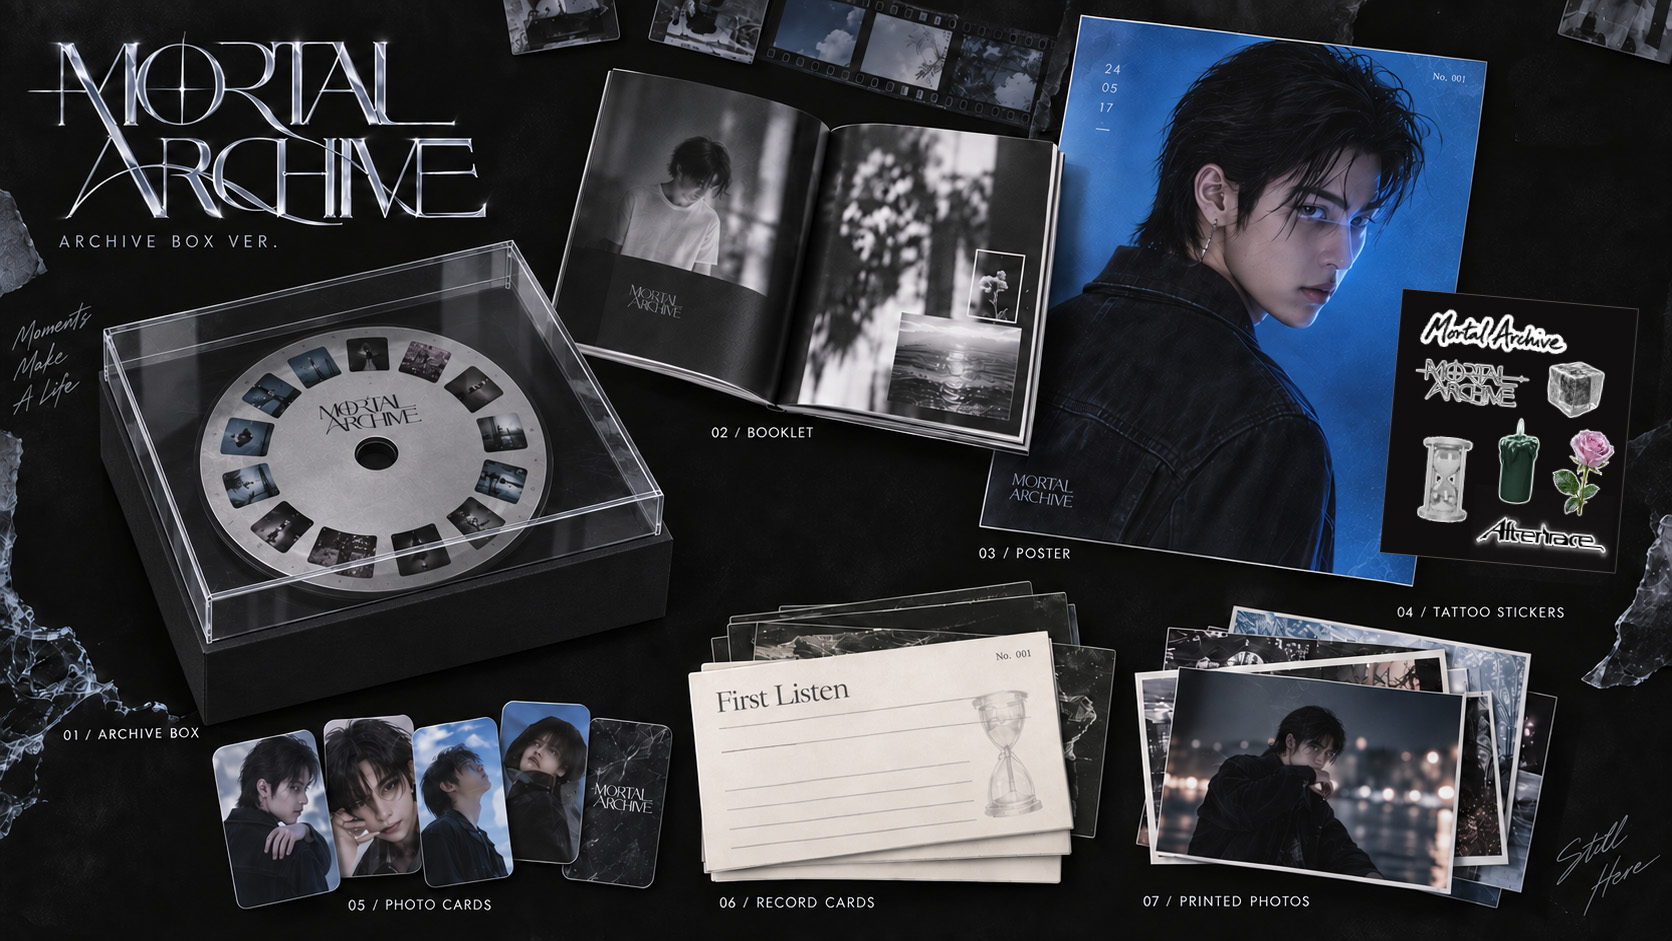
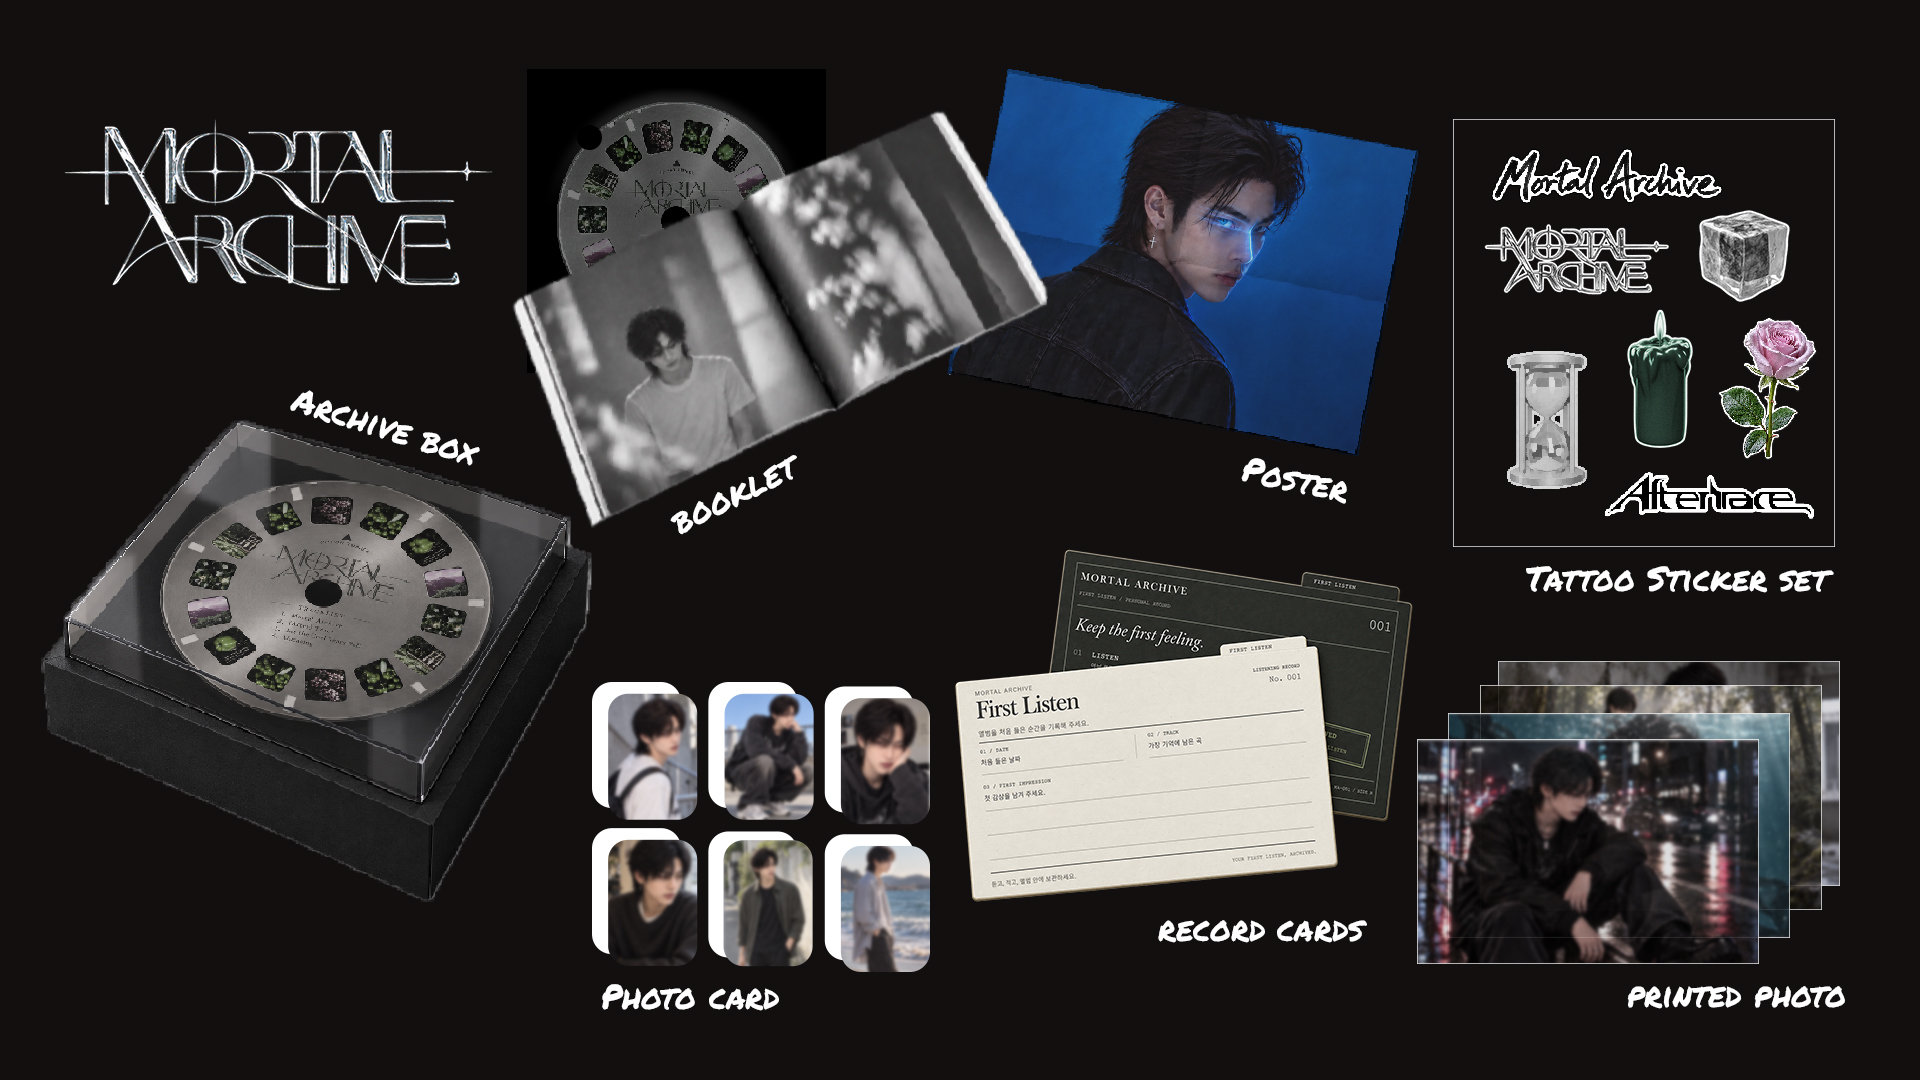
Replace Mortal Archive artboard with supplied September 28 image

diff --git a/index.html b/index.html
@@ -47,7 +47,7 @@
       <div class="intro-copy"><p>앨범 패키지부터 비주얼라이저,<br>SNS 영상까지 구성한 디자인 프로젝트.</p></div>
       <nav class="project-index" aria-label="Mortal Archive 작품 목차">
         <a class="project-card" href="#artboard" aria-label="01 Artboard — 앨범·패키지 디자인 보기">
-          <span class="project-card-preview preview-artboard" aria-hidden="true"><img src="media/mortal-archive-artboard.jpg?v=20261004" width="1672" height="941" alt=""></span>
+          <span class="project-card-preview preview-artboard" aria-hidden="true"><img src="media/mortal-archive-artboard.jpg?v=20261007" width="1920" height="1080" alt=""></span>
           <span class="project-card-copy"><span class="project-card-title"><small>01</small><strong>앨범·패키지</strong><span class="project-card-arrow" aria-hidden="true">↓</span></span><span class="project-card-description">앨범 · 패키지 디자인</span></span>
         </a>
         <a class="project-card" href="#visualizer" aria-label="02 Visualizer — 음악 비주얼라이저 보기">
@@ -61,7 +61,7 @@
       </nav>
     </div>
     </div>
-    <figure class="artboard viewport-panel" id="artboard"><div class="media-heading project-work-heading"><h3><span>01</span> 앨범·패키지</h3><a class="text-link" href="media/mortal-archive-artboard.jpg?v=20261004" target="_blank" rel="noopener">이미지 크게 보기 ↗</a></div><a class="artboard-image" href="media/mortal-archive-artboard.jpg?v=20261004" target="_blank" rel="noopener" aria-label="Mortal Archive 아트보드 원본 크기로 보기"><img src="media/mortal-archive-artboard.jpg?v=20261004" width="1672" height="941" loading="lazy" alt="Mortal Archive 앨범 아트보드: 아카이브 박스, 북클릿, 포스터, 타투 스티커, 포토 카드, 레코드 카드와 인화 사진"></a><figcaption><p>아카이브 박스 · 북클릿 · 포스터 · 타투 스티커 · 포토카드 · 레코드 카드 · 인화 사진</p></figcaption></figure>
+    <figure class="artboard viewport-panel" id="artboard"><div class="media-heading project-work-heading"><h3><span>01</span> 앨범·패키지</h3><a class="text-link" href="media/mortal-archive-artboard.jpg?v=20261007" target="_blank" rel="noopener">이미지 크게 보기 ↗</a></div><a class="artboard-image" href="media/mortal-archive-artboard.jpg?v=20261007" target="_blank" rel="noopener" aria-label="Mortal Archive 아트보드 원본 크기로 보기"><img src="media/mortal-archive-artboard.jpg?v=20261007" width="1920" height="1080" loading="lazy" alt="Mortal Archive 앨범 아트보드: 아카이브 박스, 북클릿, 포스터, 타투 스티커, 포토 카드, 레코드 카드와 인화 사진"></a><figcaption><p>아카이브 박스 · 북클릿 · 포스터 · 타투 스티커 · 포토카드 · 레코드 카드 · 인화 사진</p></figcaption></figure>
     <figure class="main-film viewport-panel" id="visualizer">
       <div class="media-heading project-work-heading"><h3><span>02</span> Visualizer</h3><span>16:9 · 00:36</span></div>
       <div class="film-frame"><video id="main-video" controls playsinline preload="none" poster="media/visualizer-poster.jpg" aria-label="Mortal Archive 메인 비주얼라이저"><source src="media/mortal-archive-visualizer.mp4?v=20261004" type="video/mp4">브라우저가 영상을 지원하지 않습니다. <a href="media/mortal-archive-visualizer.mp4?v=20261004">영상 열기</a></video></div>
